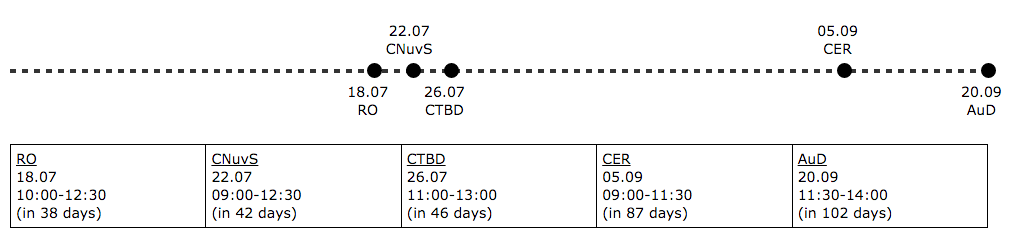
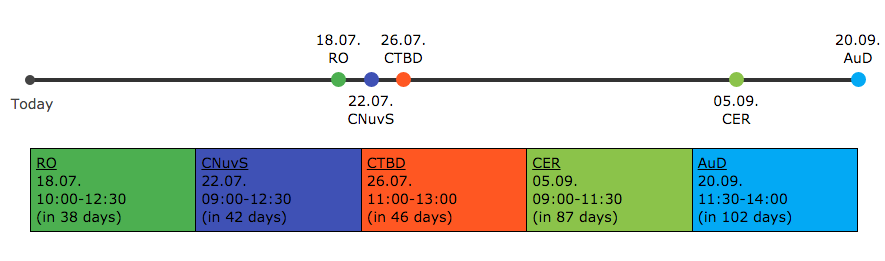
:)

diff --git a/js/main.js b/js/main.js
@@ -1,46 +1,93 @@
 (function($, R, moment, doT) {
     'use strict';
 
-    var $holder = $('.holder');
-    var dayTmpl = doT.template($('#exam').remove().html());
-    var examsTmpl = doT.template($('#exams').remove().html());
+    var config = {
+        SHOW_TODAY_MARKER: true,
+        SHOW_MONTH_MARKERS: false,
+        DAY_TEMPLATE: doT.template($('#dot').remove().html()),
+        EXAMS_TEMPLATE: doT.template($('#exams').remove().html())
+    };
 
-    getExams()
-        .then(renderExams);
+    var $holder = $('.holder');
+
+    getExams().then(renderExams);
 
     function renderExams(exams_) {
-        var exams = exams_.map(function(item) {
+        var exams = exams_
+            .map(function(item, index) {
+                item.color = index;
                 item.timeParsed = moment(item.time, 'DD.MM.YYYY');
                 item.timeDay = item.time.split(' ')[1];
                 item.daysBetween = item.timeParsed.diff(moment(), 'days');
-                item.date = item.timeParsed.format('DD.MM');
+                item.date = item.timeParsed.format('DD.MM.');
                 return item;
             })
             .sort(function(a, b) {
-                return a.timeParsed - b.timeParsed;
+                return a.timeParsed.diff(b.timeParsed);
             });
 
         var daysBetween = R.last(exams).timeParsed.diff(moment(), 'days');
 
-        $('.exams').append(examsTmpl({
+        $('body').append(config.EXAMS_TEMPLATE({
             exams: exams
         }));
 
-        $holder.append(exams
-            .map(function(exam, index) {
-                return dayTmpl({
-                    class: index % 2 === 0 ? 'even' : 'odd',
-                    left: (exam.daysBetween / daysBetween * 100) + '%',
-                    date: exam.date,
-                    days: exam.timeParsed.diff(moment(), 'days'),
-                    exam: exam.topic
-                });
-            })
-            .join(''));
+        var dots = [];
+        if (config.SHOW_TODAY_MARKER)
+            dots.push({
+                class: 'month-marker',
+                left: '0%',
+                content: 'Today',
+                date: moment()
+            });
+
+        if (config.SHOW_MONTH_MARKERS)
+            dots = dots.concat(getMonthMarkers(R.last(exams).timeParsed, daysBetween));
+
+        dots = dots.concat(getExamMarkers(exams, daysBetween));
+
+        $holder
+            .find('.dots')
+            .append(dots
+                .sort(function(a, b) {
+                    return a.date.diff(b.date);
+                })
+                .map(config.DAY_TEMPLATE));
+    }
+
+    function getExamMarkers(exams, daysDiff) {
+        return exams.map(function(exam, index) {
+            return {
+                class: 'exam ' + (exam.class || '') + ' ' + 'color-' + exam.color,
+                left: getLeftForDay(exam.daysBetween, daysDiff),
+                content: exam.date + '<br/>' + exam.topic,
+                date: exam.timeParsed
+            };
+        });
+    }
+
+    function getMonthMarkers(lastDate, daysDiff) {
+        var date = moment().startOf('month');
+        var monthsBetween = lastDate.diff(date, 'months');
+
+        var dots = [];
+        for (var i = 0; i < monthsBetween; i++) {
+            date.add(1, 'months');
+            dots.push({
+                class: 'month-marker',
+                left: getLeftForDay(date.diff(moment(), 'days'), daysDiff),
+                content: date.format('DD.MM.'),
+                date: date.clone()
+            });
+        }
+        return dots;
+    }
+
+    function getLeftForDay(day, daysCount) {
+        return (day / daysCount * 100) + '%';
     }
 
     function getExams() {
         return $.getJSON('exams.json');
     }
-
 })(jQuery, R, moment, doT);

diff --git a/css/main.css b/css/main.css
@@ -72,17 +72,26 @@ body {
 
 .holder {
     position: relative;
-    margin: auto;
-    margin-top: 40px;
-    min-height: 80px;
+}
+
+.line-holder {
+    min-height: 100px;
+    margin-bottom: 20px;
 }
 
 .line {
     position: absolute;
-    top: 5px;
+    top: 50px;
     left: 0;
     right: 0;
-    border: 2px dashed #333;
+    border: 2px solid #333;
+}
+
+.dots {
+    position: absolute;
+    top: 45px;
+    left: 0;
+    right: 0;
 }
 
 .dot {
@@ -99,10 +108,25 @@ body {
 .dot .content {
     position: absolute;
     margin-top: 20px;
-    left: -20px;
+    left: -28px;
+    width: 70px;
+    text-align: center;
 }
 
-.dot.odd .content {
+.dot.smaller,
+.dot.month-marker {
+    width: 10px;
+    height: 10px;
+    margin-left: -5px;
+    top: 2px;
+}
+
+.dot.month-marker {
+    background: #444;
+    color: #444;
+}
+
+.dots .dot:nth-child(even) .content {
     bottom: 20px;
 }
 
@@ -124,3 +148,44 @@ body {
 .exams .exam h1 {
     text-decoration: underline;
 }
+
+/*
+$red: rgb(244, 67, 54);
+$pink: rgb(233, 30, 99);
+$purple: rgb(156, 39, 176);
+$deep-purple: rgb(103, 58, 183);
+$indigo: rgb(63, 81, 181);
+$blue: rgb(33, 150, 243);
+$light-blue: rgb(3, 169, 244);
+$cyan: rgb(0, 188, 212);
+$teal: rgb(0, 150, 136);
+$green: rgb(76, 175, 80);
+$light-green: rgb(139, 195, 74);
+$lime: rgb(205, 220, 57);
+$yellow: rgb(255, 235, 59);
+$amber: rgb(255, 193, 7);
+$orange: rgb(255, 152, 0);
+$deep-orange: rgb(255, 87, 34);
+$brown: rgb(121, 85, 72);
+$grey: rgb(158, 158, 158);
+$blue-grey: rgb(96, 125, 139);
+*/
+.color-0 {background: rgb(76, 175, 80);}
+.color-1 {background: rgb(63, 81, 181);}
+.color-2 {background: rgb(3, 169, 244);}
+.color-3 {background: rgb(255, 87, 34);}
+.color-4 {background: rgb(139, 195, 74);}
+.color-5 {background: rgb(0, 150, 136);}
+.color-6 {background: rgb(156, 39, 176);}
+.color-7 {background: rgb(96, 125, 139);}
+.color-8 {background: rgb(205, 220, 57);}
+.color-9 {background: rgb(121, 85, 72);}
+.color-10 {background: rgb(33, 150, 243);}
+.color-11 {background: rgb(233, 30, 99);}
+.color-12 {background: rgb(0, 188, 212);}
+.color-13 {background: rgb(158, 158, 158);}
+.color-14 {background: rgb(255, 193, 7);}
+.color-15 {background: rgb(103, 58, 183);}
+.color-16 {background: rgb(244, 67, 54);}
+.color-17 {background: rgb(255, 235, 59);}
+.color-18 {background: rgb(255, 152, 0);}

diff --git a/index.html b/index.html
@@ -6,29 +6,33 @@
 
 <body>
     <div class="holder">
-        <div class="line"></div>
+        <div class="line-holder">
+            <div class="line"></div>
+            <div class="dots"></div>
+        </div>
     </div>
-    <div class="exams"></div>
 
-    <template id="exam">
-        <div class="exam dot {{=it.class}}" style="left: {{=it.left}}">
+    <template id="dot">
+        <div class="dot {{=it.class}}" style="left: {{=it.left}}">
             <div class="content">
-                {{=it.date}}
-                {{=it.exam}}
+                {{=it.content}}
             </div>
         </div>
     </template>
+
     <template id="exams">
-        {{~it.exams :value:index}}
-        <div class="exam">
-            <h1>{{=value.topic}}</h1>
-            {{=value.date}}
-            <br/>
-            {{=value.timeDay}}
-            <br/>
-            (in {{=value.daysBetween}} days)
+        <div class="exams">
+            {{~it.exams :value:index}}
+            <div class="exam color-{{=value.color}}">
+                <h1>{{=value.topic}}</h1>
+                {{=value.date}}
+                <br/>
+                {{=value.timeDay}}
+                <br/>
+                (in {{=value.daysBetween}} days)
+            </div>
+            {{~}}
         </div>
-        {{~}}
     </template>
 
     <script src="lib/jquery/dist/jquery.js" type="text/javascript"></script>

diff --git a/README.md b/README.md
@@ -5,4 +5,7 @@ bower install
 http-server -o
 ```
 
+# Anpassen
+Einfach die `exams.json` anschauen. Sollte klar sein :) Wenn nicht einfach kurz anschreiben oder Issue erstellen!
+
 ![Screenshot](screenshot.png)
